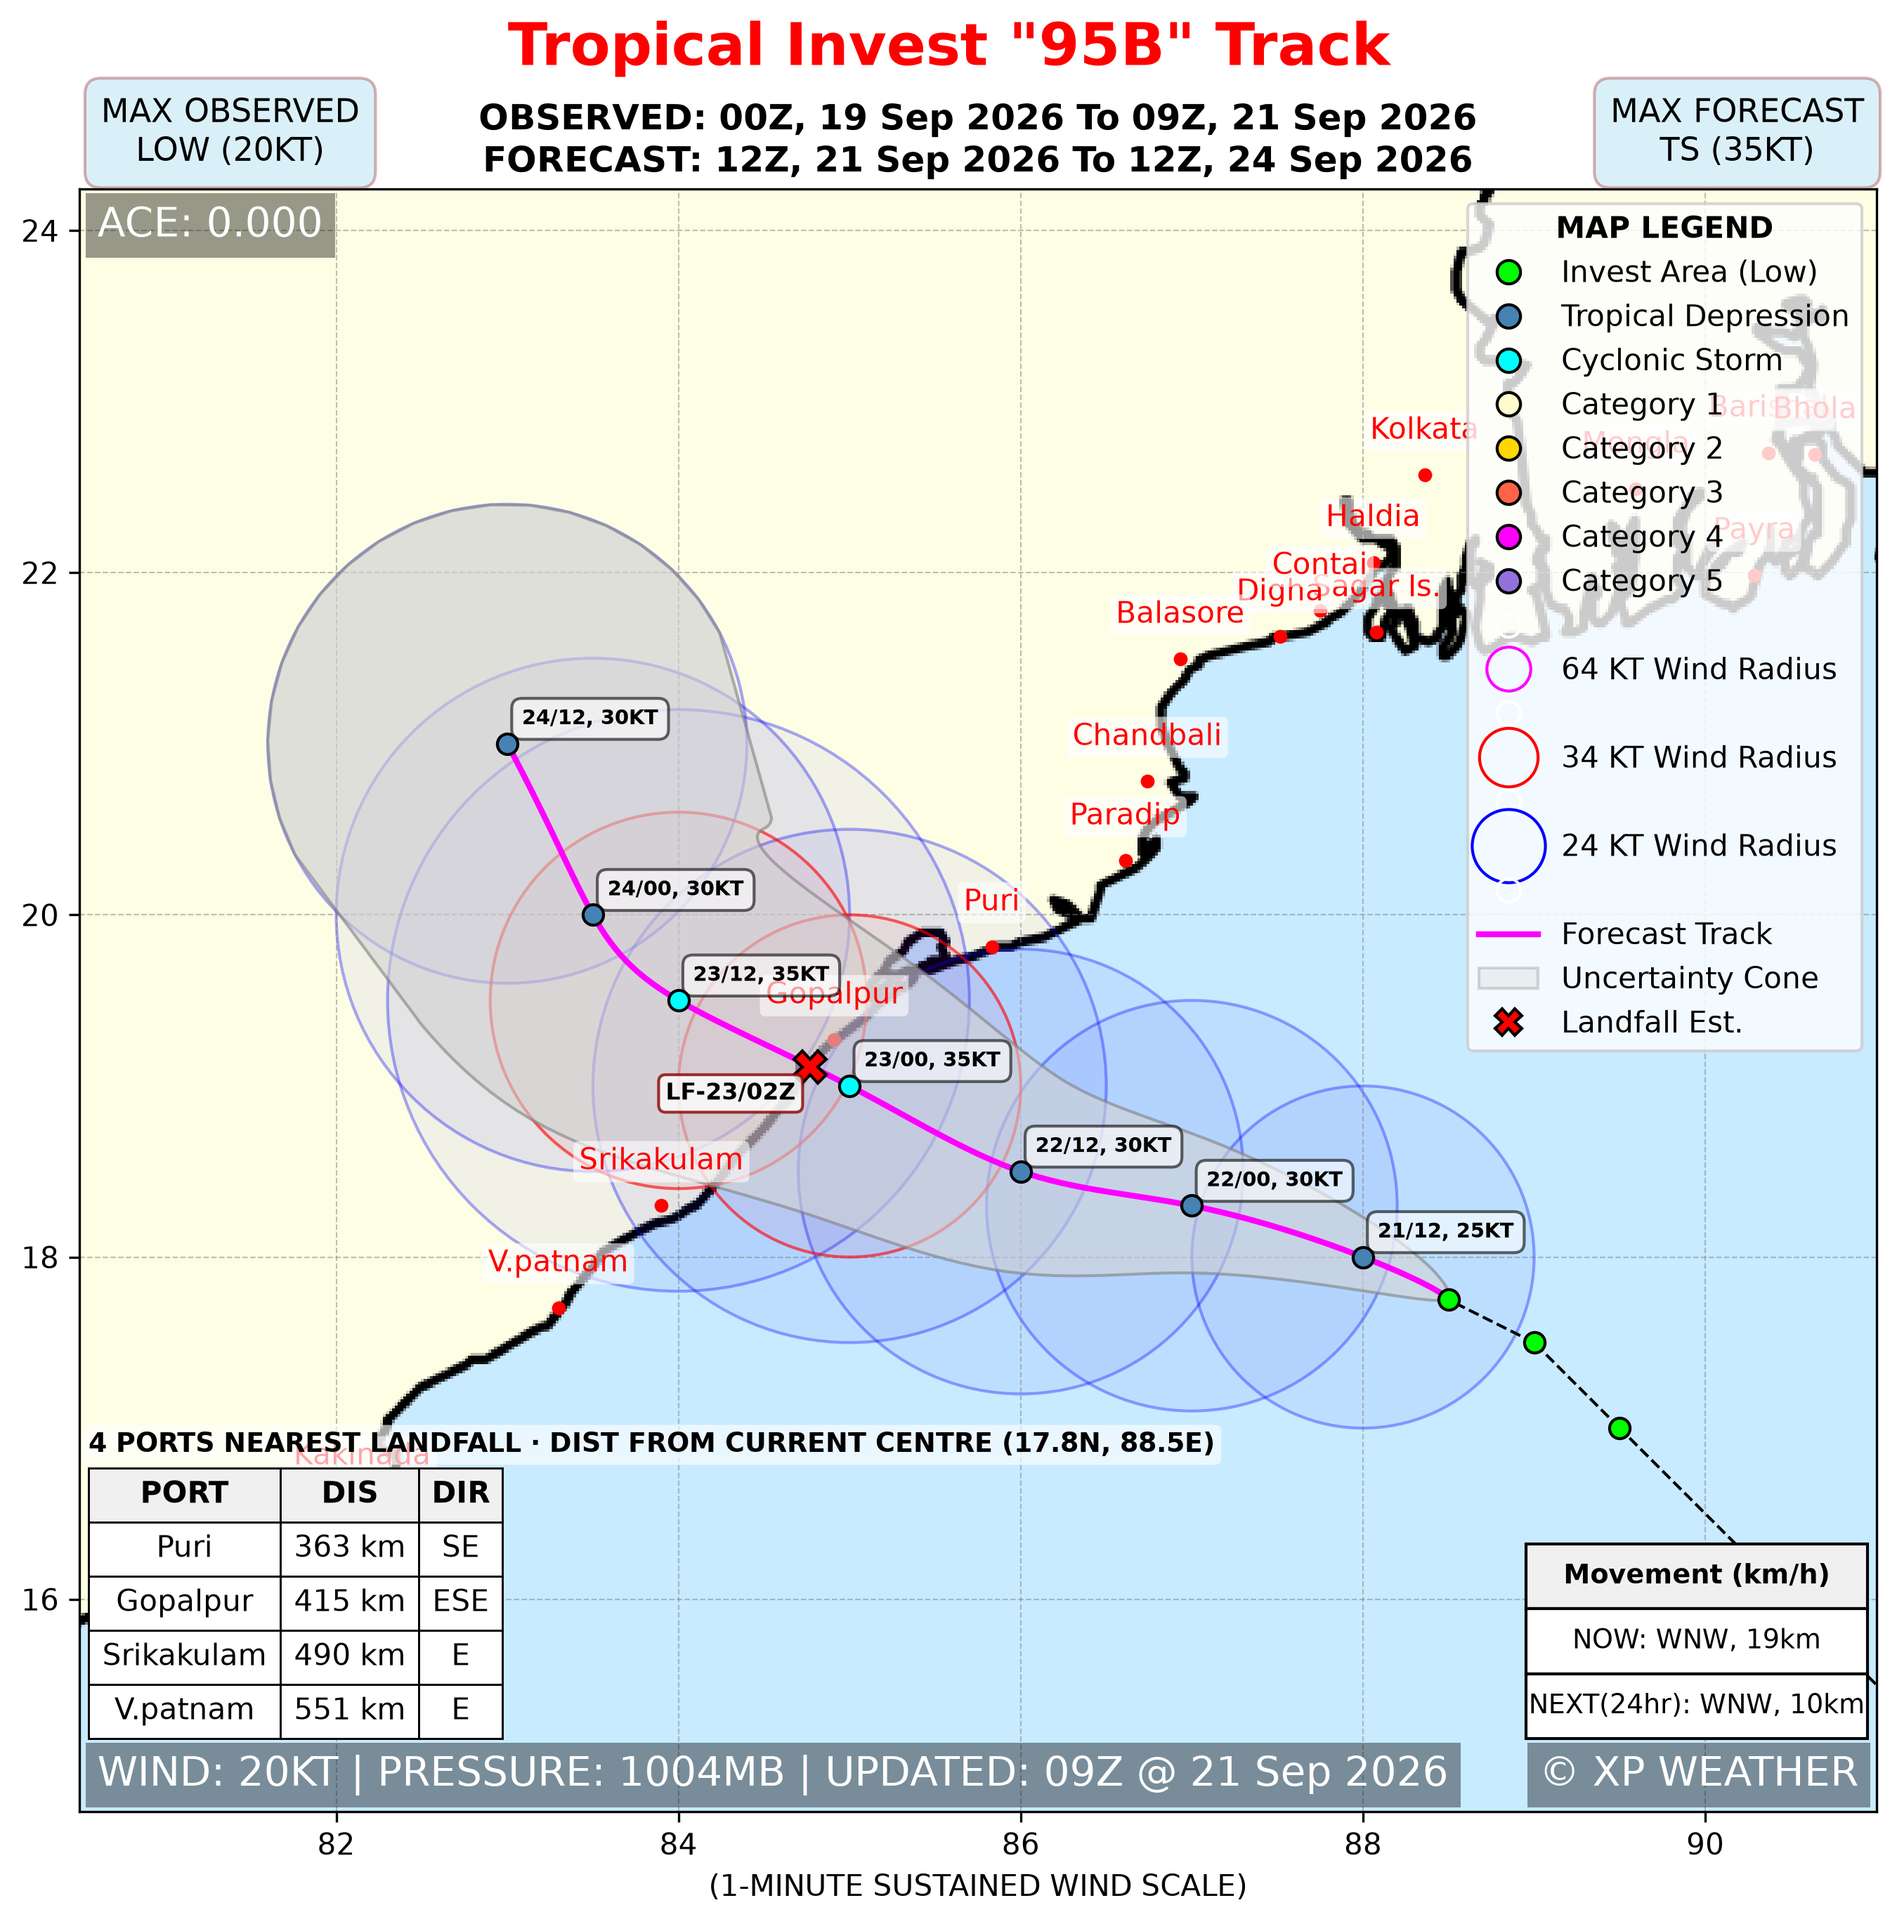
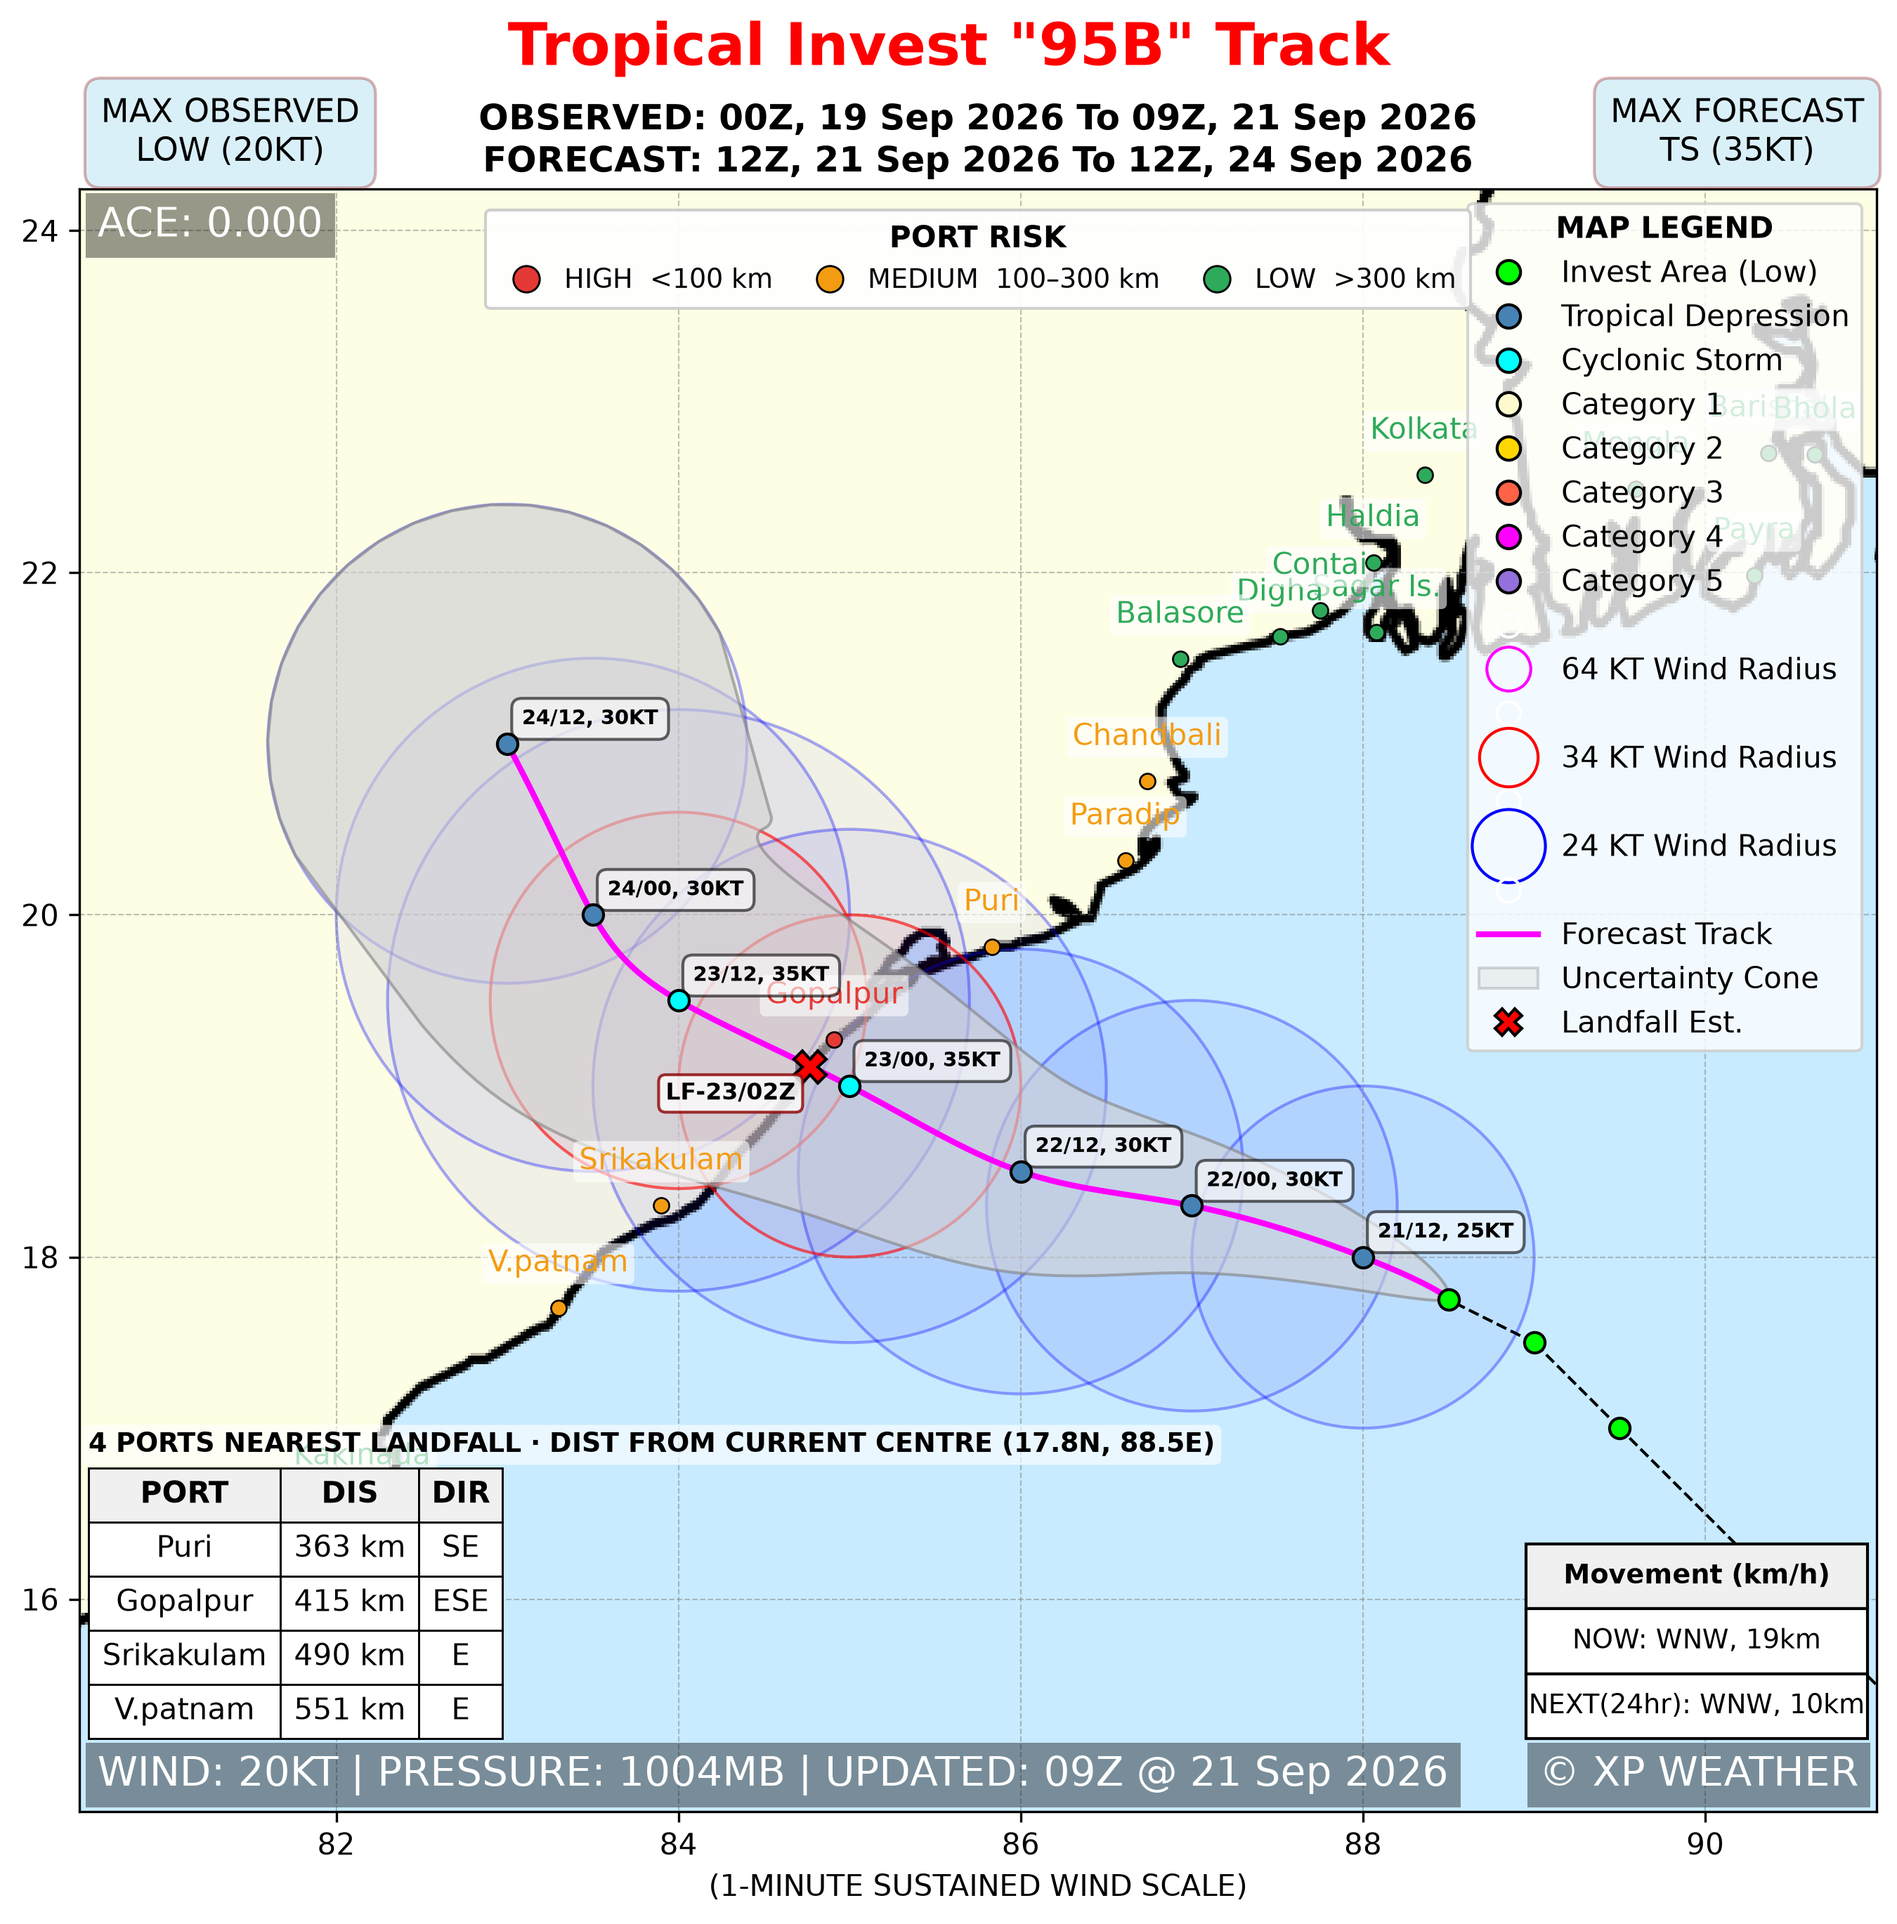
Add landfall-based port risk colours

diff --git a/cyclone/plotting.py b/cyclone/plotting.py
@@ -21,7 +21,12 @@ from .config import (
 from .cone import create_nhc_cone
 from .geo import haversine, get_bearing, get_cardinal_direction
 from .ace import calculate_ace
-from .landfall import find_landfall, port_centre_table, current_centre
+from .landfall import (
+    find_landfall,
+    port_centre_table,
+    current_centre,
+    classify_port_risk,
+)
 from .ports import BOB
 from features.ailoc import predict_landfall_latlon
 from features.aibc import apply_simple_bias
@@ -376,10 +381,13 @@ def plot_cyclone(cyclone_name, track_data_obs, track_data_for, is_invest,
     landfall_info = None
     approach_rows = []
 
-    if SHOW_LANDFALL or SHOW_APPROACH_TABLE or SHOW_PORT_TABLE:
+    # Port colours are also driven by the landfall estimate, so calculate it
+    # whenever ports are visible (not only when the landfall X is enabled).
+    if SHOW_LANDFALL or SHOW_PORTS or SHOW_APPROACH_TABLE or SHOW_PORT_TABLE:
         try:
+            landfall_info = find_landfall(track_data_obs, track_data_for, BOB())
+
             if SHOW_LANDFALL:
-                landfall_info = find_landfall(track_data_obs, track_data_for, BOB())
                 if landfall_info is not None:
                     where = (f"near {landfall_info['place']}"
                              if landfall_info['place']
@@ -576,7 +584,51 @@ def plot_cyclone(cyclone_name, track_data_obs, track_data_for, is_invest,
 
   # -------------------- LEGEND --------------------
     if SHOW_LEGEND:
-    
+        # Keep the port-risk key separate from the long cyclone-status
+        # legend.  It is deliberately horizontal and anchored at the top of
+        # the map so the three marker colours can be read at a glance.
+        if SHOW_PORTS:
+            port_risk_handles = [
+                Line2D(
+                    [0], [0], marker='o', linestyle='None',
+                    markerfacecolor='#e53935', markeredgecolor='black',
+                    markeredgewidth=0.7, markersize=9,
+                    label='HIGH  <100 km',
+                ),
+                Line2D(
+                    [0], [0], marker='o', linestyle='None',
+                    markerfacecolor='#f39c12', markeredgecolor='black',
+                    markeredgewidth=0.7, markersize=9,
+                    label='MEDIUM  100–300 km',
+                ),
+                Line2D(
+                    [0], [0], marker='o', linestyle='None',
+                    markerfacecolor='#2eaa5b', markeredgecolor='black',
+                    markeredgewidth=0.7, markersize=9,
+                    label='LOW  >300 km',
+                ),
+            ]
+            port_risk_legend = ax.legend(
+                handles=port_risk_handles,
+                loc='upper center',
+                bbox_to_anchor=(0.50, 0.995),
+                ncol=3,
+                title='PORT RISK',
+                fontsize=9,
+                title_fontsize=10,
+                frameon=True,
+                fancybox=True,
+                framealpha=0.94,
+                borderpad=0.55,
+                handletextpad=0.45,
+                columnspacing=1.15,
+            )
+            port_risk_legend.get_title().set_fontweight('bold')
+            port_risk_legend.set_zorder(10000)
+            port_risk_legend.get_frame().set_zorder(10000)
+            # A second ax.legend call below would otherwise replace it.
+            ax.add_artist(port_risk_legend)
+
     # Bias-corrected track (dashed magenta)
         if SHOW_BIAS_TRACK:
           legend_elements_prev.append(
@@ -698,11 +750,26 @@ def plot_cyclone(cyclone_name, track_data_obs, track_data_for, is_invest,
         )
 
     # -------------------- PORT MARKERS & LABELS --------------------
+    # Every visible port gets a colour based on its distance to the estimated
+    # landfall, rather than the current centre or the closest forecast point.
+    # This keeps the map markers and the PORT RISK legend consistent.
     visible_cities = []
     if SHOW_PORTS:
         for location, (plat, plon) in BOB().items():
             if lat_min <= plat <= lat_max and lon_min <= plon <= lon_max:
-                visible_cities.append((location, plat, plon))
+                if landfall_info is not None:
+                    landfall_distance = haversine(
+                        (plat, plon),
+                        (landfall_info["lat"], landfall_info["lon"]),
+                    )
+                else:
+                    landfall_distance = None
+                visible_cities.append((
+                    location,
+                    plat,
+                    plon,
+                    classify_port_risk(landfall_distance),
+                ))
 
     if SHOW_PORTS:
         # City labels: centered above marker + overlap control
@@ -713,8 +780,19 @@ def plot_cyclone(cyclone_name, track_data_obs, track_data_for, is_invest,
         dy_pt_base = 10
         city_min_dist_px = 18
 
-        for city, plat, plon in visible_cities:
-            ax.scatter(plon, plat, marker='o', s=14, color='red', zorder=2)
+        for city, plat, plon, risk in visible_cities:
+            # Larger, outlined dots keep the risk colour visible over both
+            # the pale land and blue ocean parts of Map.png.
+            ax.scatter(
+                plon,
+                plat,
+                marker='o',
+                s=28,
+                color=risk["color"],
+                edgecolor='black',
+                linewidth=0.65,
+                zorder=6,
+            )
 
             base_disp = ax.transData.transform((plon, plat))
 
@@ -739,7 +817,7 @@ def plot_cyclone(cyclone_name, track_data_obs, track_data_for, is_invest,
                 xytext=(0, dy_pt),
                 textcoords='offset points',
                 fontsize=10,
-                color='red',
+                color=risk["color"],
                 ha='center',
                 va='bottom',
                 bbox=dict(

diff --git a/cyclone/landfall.py b/cyclone/landfall.py
@@ -10,7 +10,7 @@ estimate *where and when* a forecast track first reaches the coast, but it
 is NOT a navigational dataset.
 """
 
-from math import cos, sin, radians, degrees, atan2, hypot, sqrt
+from math import cos, sin, radians, degrees, atan2, hypot, sqrt, isfinite
 
 import pandas as pd
 
@@ -261,6 +261,82 @@ def current_centre(track_obs, track_for=None):
     if not pts:
         return None
     return (pts[-1][2], pts[-1][1])
+
+
+# Port-risk thresholds are deliberately distance based so the marker colours
+# answer one clear question: how close is this port to the estimated landfall?
+# The bands match the map legend drawn by cyclone.plotting.
+PORT_RISK_BANDS = (
+    {
+        "key": "high",
+        "label": "HIGH RISK",
+        "legend": "<100 km",
+        "color": "#e53935",       # red
+        "min_km": 0.0,
+        "max_km": 100.0,
+    },
+    {
+        "key": "medium",
+        "label": "MEDIUM RISK",
+        "legend": "100–300 km",
+        "color": "#f39c12",       # orange
+        "min_km": 100.0,
+        "max_km": 300.0,
+    },
+    {
+        "key": "low",
+        "label": "LOW RISK",
+        "legend": ">300 km",
+        "color": "#2eaa5b",       # green
+        "min_km": 300.0,
+        "max_km": float("inf"),
+    },
+)
+
+
+def classify_port_risk(distance_km):
+    """Return the display band for a port's distance from landfall.
+
+    Distances are in kilometres.  Exactly 100 km is in the orange band and
+    exactly 300 km is in the orange band; only distances strictly below 100 km
+    are red, as requested for the high-risk cutoff.
+
+    ``None``/non-finite distances are returned as an explicit unknown band so
+    a map can never silently show a port as safe when no landfall exists.
+    """
+    try:
+        distance = float(distance_km)
+    except (TypeError, ValueError):
+        distance = float("nan")
+
+    if not isfinite(distance):
+        return {
+            "key": "unknown",
+            "label": "UNKNOWN",
+            "legend": "No landfall",
+            "color": "#9e9e9e",
+            "distance_km": None,
+        }
+
+    # Negative values are not meaningful, but clamping makes this helper safe
+    # for callers that work with rounded/projected geometry.
+    distance = max(0.0, distance)
+    for band in PORT_RISK_BANDS:
+        if band["key"] == "high":
+            matches = distance < band["max_km"]
+        elif band["key"] == "medium":
+            matches = distance <= band["max_km"]
+        else:
+            matches = distance > band["min_km"]
+        if matches:
+            result = dict(band)
+            result["distance_km"] = distance
+            return result
+
+    # The final band has an infinite upper bound, so this is defensive only.
+    result = dict(PORT_RISK_BANDS[-1])
+    result["distance_km"] = distance
+    return result
 
 
 def _per_port_approaches(track_obs, track_for, ports, radius_km=800.0):

diff --git a/README.md b/README.md
@@ -87,7 +87,10 @@ Toggles (1 = ON, 0 = OFF):
 
 - `show_cone` – draw the uncertainty cone or not.
 - `show_legend` – show/hide legend.
-- `show_ports` – draw port markers.
+- `show_ports` – draw port markers. When an estimated landfall is available,
+  each port marker is risk-coloured by distance to that landfall: red/high
+  for `<100 km`, orange/medium for `100–300 km`, and green/low for `>300 km`.
+  The `PORT RISK` key is placed horizontally at the top of the map.
 - `show_port_table` / `show_approach_table` – both toggles show the *same*
   single port table (they are aliases, kept so older config.ini files keep
   working); set both to 0 to hide it.
